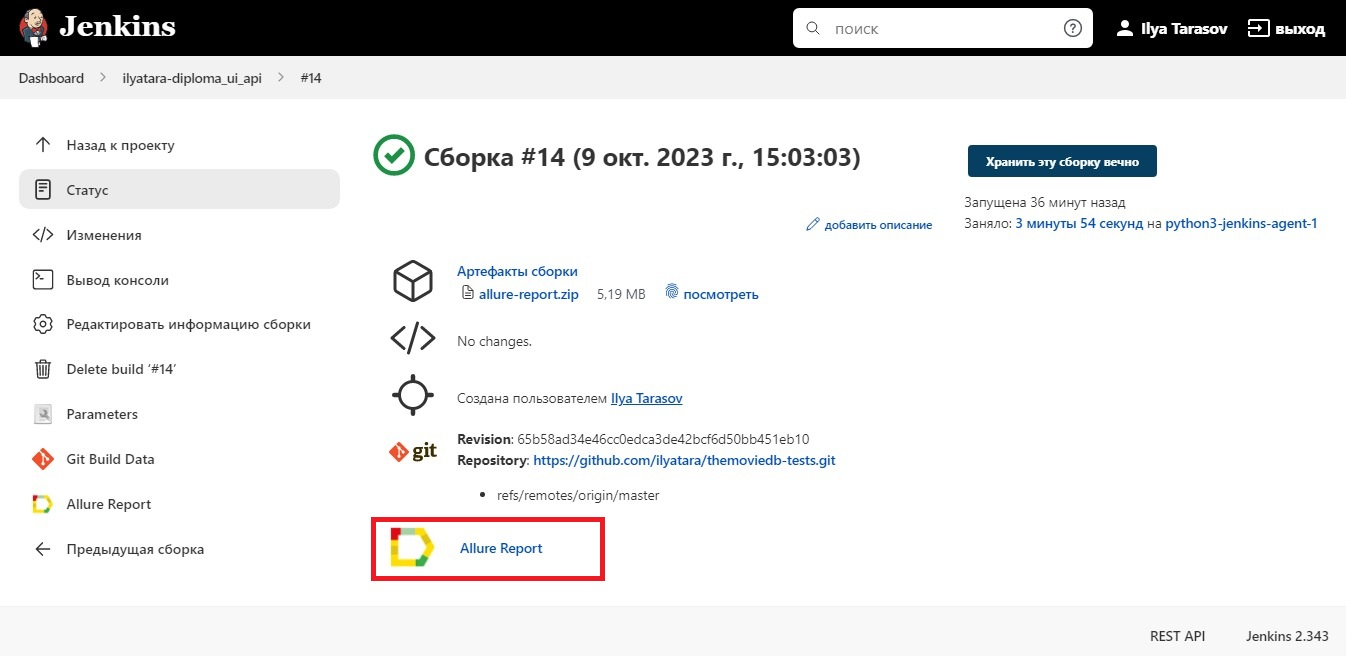
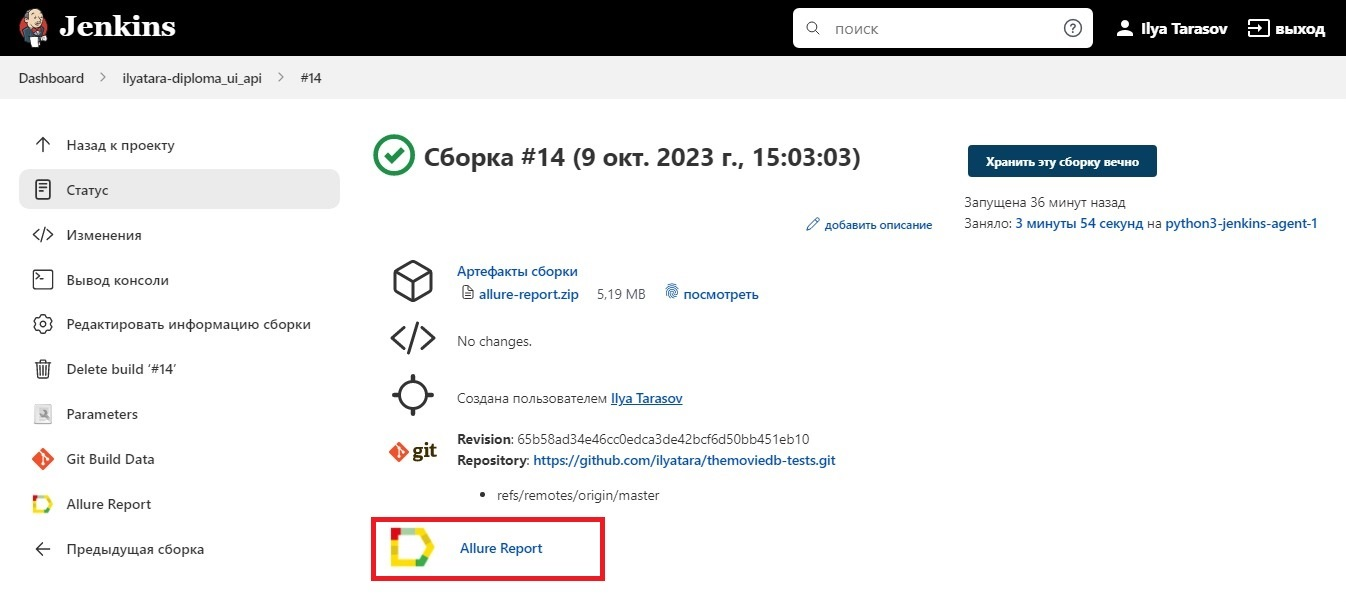
Readme images fixes

diff --git a/README.md b/README.md
@@ -49,7 +49,7 @@
 
 ### <a href="https://jenkins.autotests.cloud/job/ilyatara-diploma_ui_api/">Сборка Jenkins</a>
 
-<img src="readme_images/screenshots/jenkins_main_page.jpg.jpg" alt=""/>
+<img src="readme_images/screenshots/jenkins_main_page.jpg" alt=""/>
 
 
 
